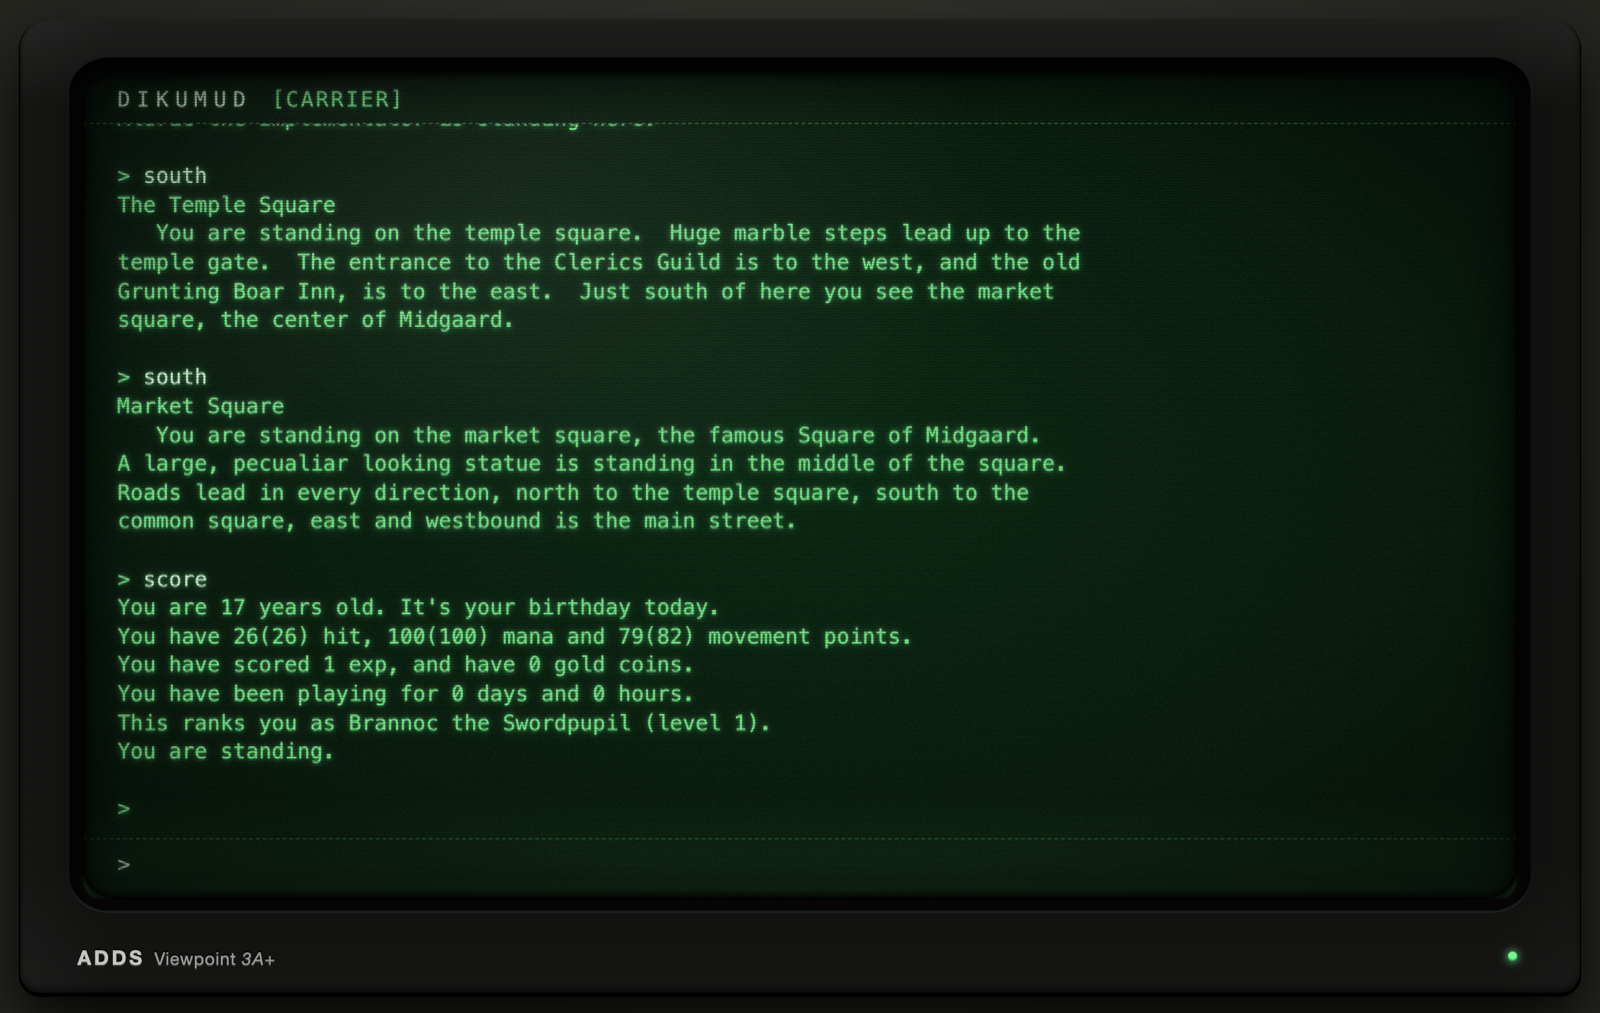
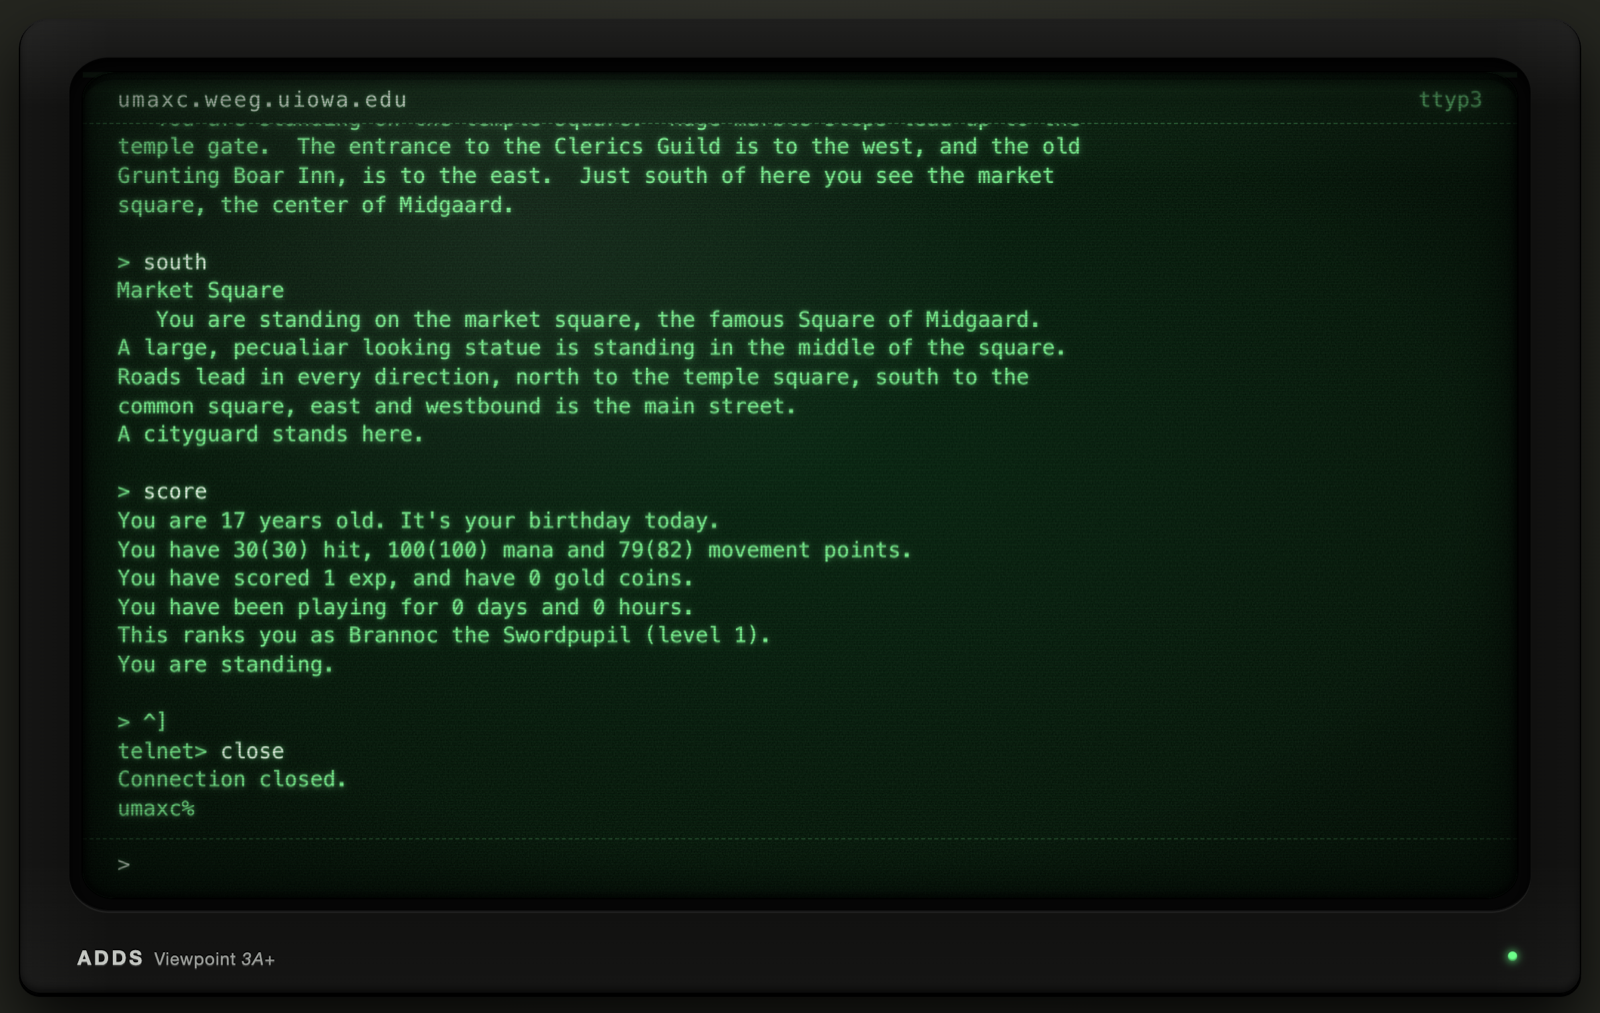
Open the web client on a simulated C shell; reach the MUD with telnet
The terminal now shows umaxc.weeg.uiowa.edu instead of a carrier
status and starts at a csh prompt with a login banner. A handful of
builtins work (ls, cd, pwd, cat, echo, who, date, history, !!, !n,
logout). "telnet mud" opens the WebSocket to the game; ^] gives a
telnet> prompt with close/quit/open/status, and a server-side close
prints "Connection closed by foreign host." and returns to the shell.
The Reconnect button is gone. README explains the new flow, and the
screenshot is retaken to show it.

Changed region(s): [[0.0625, 0.0918, 0.6875, 0.8263], [0.875, 0.0918, 0.9375, 0.1224]]

diff --git a/web/index.html b/web/index.html
@@ -104,20 +104,8 @@
     display: flex; align-items: center; gap: 14px;
     padding: 10px 26px 6px; border-bottom: 1px dashed var(--faint);
   }
-  header h1 { font-size: 1em; margin: 0; color: var(--bright); letter-spacing: .3em; font-weight: normal; }
-  #status { color: var(--dim); text-transform: uppercase; letter-spacing: .1em; }
-  #status::before { content: "["; } #status::after { content: "]"; }
-  #status.on { color: var(--text); }
-  #status.off { animation: blink 1.1s steps(1) infinite; }
-  header button {
-    margin-left: auto; background: transparent; color: var(--bright);
-    border: 1px solid var(--dim); border-radius: 0; padding: 1px 10px;
-    font: inherit; text-shadow: inherit; text-transform: uppercase; letter-spacing: .1em; cursor: pointer;
-  }
-  header button:hover, header button:focus-visible {
-    background: var(--text); color: var(--glass); text-shadow: none; outline: 0;
-    box-shadow: 0 0 10px rgba(var(--phos), .6);
-  }
+  header h1 { font-size: 1em; margin: 0; color: var(--bright); letter-spacing: .08em; font-weight: normal; }
+  #tty { margin-left: auto; color: var(--dim); }
 
   .viewport { position: relative; flex: 1; min-height: 0; }
   #out, #ghost {
@@ -244,7 +232,7 @@
     header h1 { letter-spacing: .15em; }
   }
   @media (prefers-reduced-motion: reduce) {
-    #crt, #screen, #interlace, #noise, #roll, #status.off, #out .new { animation: none !important; }
+    #crt, #screen, #interlace, #noise, #roll, #out .new { animation: none !important; }
     #roll { display: none; }
     #ghost > div { transition: none; }
   }
@@ -256,9 +244,8 @@
 <div id="crt">
   <div id="screen">
     <header>
-      <h1>DIKUMUD</h1>
-      <span id="status" class="off">connecting</span>
-      <button id="reconnect" type="button" hidden>Reconnect</button>
+      <h1>umaxc.weeg.uiowa.edu</h1>
+      <span id="tty">ttyp3</span>
     </header>
     <div class="viewport">
       <div id="ghost" aria-hidden="true"><div></div></div>
@@ -291,8 +278,6 @@
   const ghost = document.getElementById('ghost');
   const ghostText = ghost.firstElementChild;
   const input = document.getElementById('in');
-  const status = document.getElementById('status');
-  const again = document.getElementById('reconnect');
   const crt = document.getElementById('crt');
   const MAX_CHARS = 400000;
   const calm = matchMedia('(prefers-reduced-motion: reduce)');
@@ -389,11 +374,168 @@
   every(45e3, 200e3, ripple);           // every 45–200 seconds
   window.crtFx = { blank, ripple };     // for trying the effects from devtools
 
+  // ---- the host: a C shell on umaxc, with telnet as the way into the MUD ----
+  const HOST = 'umaxc', FQDN = 'umaxc.weeg.uiowa.edu', USER = 'guest', HOME = '/usr/guest';
+  const MUD = { names: ['mud', 'mud.weeg.uiowa.edu'], addr: '128.255.44.21', port: 4000 };
+  const FILES = {
+    '/usr/guest': ['.cshrc', '.login', '.plan', 'mbox', 'notes'],
+    '/usr/guest/notes': ['diku-maps', 'todo'],
+  };
+  // 'sh' at the C shell, 'cmd' at the telnet> prompt, 'mud' when connected
+  let mode = 'sh', cwd = HOME, shHist = [], closing = false;
+
+  const fmtDate = (d = new Date()) => {
+    const p = n => String(n).padStart(2, '0');
+    const day = d.toLocaleString('en-US', { weekday: 'short' });
+    const mon = d.toLocaleString('en-US', { month: 'short' });
+    return `${day} ${mon} ${String(d.getDate()).padStart(2, ' ')} ${p(d.getHours())}:${p(d.getMinutes())}:${p(d.getSeconds())} CST ${d.getFullYear()}`;
+  };
+  const shPrompt = () => append(`${HOST}% `);
+  const tnPrompt = () => append('telnet> ');
+
+  function banner() {
+    const last = new Date(Date.now() - 26 * 3600e3 - Math.random() * 40 * 3600e3);
+    append(
+`\nUMAX V Release 2.4 (${FQDN}) (ttyp3)\n\n` +
+`login: ${USER}\n` +
+`Last login: ${fmtDate(last)} from weeg-ts2\n` +
+`University of Iowa -- Weeg Computing Center -- Encore Multimax\n\n` +
+`  * DikuMUD is running on host "mud".  To play:  telnet mud\n` +
+`  * Escape from telnet with ^] (control-right-bracket).\n\n`);
+    mode = 'sh'; cwd = HOME;
+    shPrompt();
+  }
+
+  function resolve(path) {
+    if (!path || path === '~') return HOME;
+    if (path.startsWith('~/')) path = HOME + path.slice(1);
+    if (!path.startsWith('/')) path = cwd + '/' + path;
+    const parts = [];
+    for (const seg of path.split('/')) {
+      if (!seg || seg === '.') continue;
+      if (seg === '..') parts.pop(); else parts.push(seg);
+    }
+    return '/' + parts.join('/');
+  }
+
+  // returns false when the command takes over the screen (telnet) and prints its own prompt
+  function runShell(line) {
+    const words = line.trim().split(/\s+/).filter(Boolean);
+    if (!words.length) return true;
+    const [cmd, ...args] = words;
+    const say = t => append(t + '\n');
+    switch (cmd) {
+      case 'telnet':
+        if (!args.length) { mode = 'cmd'; tnPrompt(); return false; }
+        return telnetOpen(args[0], args[1]);
+      case 'echo': say(args.join(' ').replace(/\$HOME/g, HOME).replace(/\$USER/g, USER)); break;
+      case 'pwd': say(cwd); break;
+      case 'cd': {
+        const to = resolve(args[0]);
+        if (FILES[to]) cwd = to; else say(`${args[0]}: No such file or directory.`);
+        break;
+      }
+      case 'ls': {
+        const all = args.includes('-a') || args.includes('-la') || args.includes('-al');
+        const target = resolve(args.find(a => !a.startsWith('-')) || '.');
+        const list = FILES[target];
+        if (!list) { say(`${args.find(a => !a.startsWith('-'))} not found`); break; }
+        const shown = all ? ['.', '..', ...list] : list.filter(f => !f.startsWith('.'));
+        say(shown.join('  '));
+        break;
+      }
+      case 'cat': {
+        const f = args[0];
+        if (f === '.plan' && cwd === HOME) say('Mapping the sewers under Midgaard.  Again.');
+        else if (f === 'todo' && cwd === HOME + '/notes') say('- find the cityguard captain\n- buy a lantern');
+        else say(`${f || 'cat'}: ${f ? 'Permission denied' : 'Usage: cat file'}.`);
+        break;
+      }
+      case 'whoami': say(USER); break;
+      case 'hostname': say(FQDN); break;
+      case 'uname': say(args.includes('-a') ? `UMAX ${HOST} 2.4 V Multimax` : 'UMAX'); break;
+      case 'date': say(fmtDate()); break;
+      case 'who':
+        say(`${USER.padEnd(9)}ttyp3   ${fmtDate().slice(4, 16)}   (weeg-ts2)`);
+        say(`root     console ${fmtDate(new Date(Date.now() - 9 * 86400e3)).slice(4, 16)}`);
+        break;
+      case 'history':
+        shHist.forEach((h, i) => say(String(i + 1).padStart(6) + '  ' + h));
+        break;
+      case 'clear': clearScreen(); break;
+      case 'logout': case 'exit': case 'login':
+        say('logout'); setTimeout(banner, 600); return false;
+      case 'rlogin': case 'ftp': case 'rsh':
+        say(`${cmd}: ${args[0] || ''}: Network is unreachable`); break;
+      default: say(`${cmd}: Command not found.`);
+    }
+    return true;
+  }
+
+  function telnetOpen(host, port) {
+    if (!host) { append('usage: open host-name [port]\n'); return true; }
+    const known = MUD.names.includes(host) || host === MUD.addr;
+    if (!known) {
+      append(`${host}: unknown host\n`);
+      return true;
+    }
+    if (port && port !== String(MUD.port) && port !== 'telnet' && port !== '23') {
+      append(`Trying ${MUD.addr}...\ntelnet: Unable to connect to remote host: Connection refused\n`);
+      return true;
+    }
+    append(`Trying ${MUD.addr}...\n`);
+    mode = 'connecting';
+    setTimeout(connect, 350 + Math.random() * 500);
+    return false;
+  }
+
+  function backToShell(msg) {
+    ws = null; closing = false;
+    setEcho(true);
+    if (msg) append(msg + '\n');
+    mode = 'sh'; shPrompt();
+  }
+
+  function runTelnetCmd(line) {
+    const [cmd, ...args] = line.trim().split(/\s+/);
+    const live = ws && ws.readyState === WebSocket.OPEN;
+    if (!cmd) { if (live) { mode = 'mud'; return; } tnPrompt(); return; }
+    if (/^(close|c|quit|q)$/.test(cmd)) {
+      if (live) { closing = true; ws.close(); return; }       // onclose prints and returns to csh
+      if (/^q/.test(cmd)) { mode = 'sh'; shPrompt(); return; }
+      append('?Need to be connected first.\n'); tnPrompt(); return;
+    }
+    if (/^(open|o)$/.test(cmd)) {
+      if (live) { append(`?Already connected to ${MUD.names[0]}\n`); tnPrompt(); return; }
+      if (!telnetOpen(args[0], args[1])) return;
+      tnPrompt(); return;
+    }
+    if (/^(status|st)$/.test(cmd)) {
+      append(live ? `Connected to ${MUD.names[0]}.\nEscape character is '^]'.\n` : 'No connection.\nEscape character is \'^]\'.\n');
+      if (live) { mode = 'mud'; return; }
+      tnPrompt(); return;
+    }
+    if (cmd === '?' || cmd === 'help') {
+      append('Commands may be abbreviated.  Commands are:\n\n' +
+        'close           close current connection\n' +
+        'open            connect to a site\n' +
+        'quit            exit telnet\n' +
+        'status          print status information\n' +
+        '?               print help information\n');
+      tnPrompt(); return;
+    }
+    append('?Invalid command\n'); tnPrompt();
+  }
+
   function connect() {
     const proto = location.protocol === 'https:' ? 'wss:' : 'ws:';
+    let opened = false;
     ws = new WebSocket(proto + '//' + location.host + '/ws');
-    status.textContent = 'connecting'; status.className = 'off'; again.hidden = true;
-    ws.onopen = () => { status.textContent = 'carrier'; status.className = 'on'; input.focus(); };
+    ws.onopen = () => {
+      opened = true; mode = 'mud';
+      append(`Connected to ${MUD.names[0]}.\nEscape character is '^]'.\n`);
+      input.focus();
+    };
     ws.onmessage = ev => {
       let m;
       try { m = JSON.parse(ev.data); } catch { return; }
@@ -401,16 +543,20 @@
       else if (m.t === 'echo') setEcho(m.v);
     };
     ws.onclose = () => {
-      status.textContent = 'no carrier'; status.className = 'off';
-      append('\n[connection closed]\n', 'sys');
-      again.hidden = false; setEcho(true);
+      if (!opened) return backToShell(`telnet: Unable to connect to remote host: Connection refused`);
+      backToShell(closing ? 'Connection closed.' : '\nConnection closed by foreign host.');
     };
   }
+
   document.getElementById('f').addEventListener('submit', e => {
     e.preventDefault();
     const line = input.value;
-    if (!ws || ws.readyState !== WebSocket.OPEN) return;
-    ws.send(line);
+    input.value = '';
+    if (mode === 'connecting') return;
+    if (mode === 'mud') {
+      if (!ws || ws.readyState !== WebSocket.OPEN) return;
+      ws.send(line);
+    }
     if (echo) {
       append(line + '\n', 'echo');
       if (line && history[history.length - 1] !== line) history.push(line);
@@ -419,10 +565,36 @@
       append('\n');
     }
     hpos = history.length;
-    input.value = '';
     out.scrollTop = out.scrollHeight;
+
+    if (mode === 'sh') {
+      let cmdline = line;
+      // csh history substitution: !! and !n
+      if (/^!(!|\d+)/.test(cmdline.trim())) {
+        const ref = cmdline.trim().slice(1);
+        const prev = ref.startsWith('!') ? shHist[shHist.length - 1] : shHist[parseInt(ref, 10) - 1];
+        if (!prev) { append(`${ref.startsWith('!') ? '!' : ref}: Event not found.\n`); shPrompt(); return; }
+        cmdline = prev + ref.replace(/^(!|\d+)/, '');
+        append(cmdline + '\n');
+      }
+      if (cmdline.trim()) shHist.push(cmdline.trim());
+      if (runShell(cmdline)) shPrompt();
+    } else if (mode === 'cmd') {
+      runTelnetCmd(line);
+    }
   });
+
   input.addEventListener('keydown', e => {
+    // ^] : telnet escape
+    if (e.ctrlKey && (e.key === ']' || e.code === 'BracketRight')) {
+      e.preventDefault();
+      if (mode === 'mud') { append('^]\n'); mode = 'cmd'; setEcho(true); tnPrompt(); }
+      return;
+    }
+    // ^C at the shell: abandon the line
+    if (e.ctrlKey && e.key === 'c' && mode === 'sh' && !getSelection().toString()) {
+      e.preventDefault(); append(input.value + '^C\n'); input.value = ''; shPrompt(); return;
+    }
     if (!echo) return;
     if (e.key === 'ArrowUp' && hpos > 0) { input.value = history[--hpos]; e.preventDefault(); }
     else if (e.key === 'ArrowDown') {
@@ -431,9 +603,8 @@
     }
   });
   out.addEventListener('click', () => { if (!getSelection().toString()) input.focus(); });
-  again.addEventListener('click', () => { clearScreen(); connect(); });
   addEventListener('resize', syncGhost);
-  connect();
+  banner();
 })();
 </script>
 </body>

diff --git a/README.md b/README.md
@@ -1,6 +1,6 @@
 # DikuMUD in Rust
 
-![DikuMUD running in the web client, styled as a green-phosphor ADDS Viewpoint 3A+ terminal, showing a walk from the Temple Square to the Market Square of Midgaard and the score command](web/screenshot.png)
+![DikuMUD in the web client, styled as a green-phosphor ADDS Viewpoint 3A+ terminal logged in to umaxc.weeg.uiowa.edu: a walk to the Market Square of Midgaard, the score command, then ^] and close back to the C shell prompt](web/screenshot.png)
 
 A port of **DikuMUD I (Gamma 0.0)**, the 1990–91 multi-user dungeon from
 DIKU (University of Copenhagen), from C to Rust. You play it in a web browser
@@ -25,7 +25,9 @@ it automatically. There are no third-party crates.
 cargo run --release
 ```
 
-Then open <http://127.0.0.1:4000/> in a browser.
+Then open <http://127.0.0.1:4000/> in a browser. The page starts at a C shell
+prompt on `umaxc.weeg.uiowa.edu`; type `telnet mud` to connect to the game.
+Press `^]` (Ctrl+]) for the `telnet>` prompt, where `close` ends the session.
 
 ```
 dmserver [-s] [-d <data dir>] [-b <bind address>] [port]
@@ -96,8 +98,10 @@ game plays the same.
   web client (`web/index.html`, built into the binary) and speaks WebSocket at
   `/ws`. The client masks the password field and keeps command history (up and
   down arrows). It is styled as a green-phosphor CRT terminal; the flicker and
-  glitch effects switch off when the system asks for reduced motion. Telnet is
-  no longer supported.
+  glitch effects switch off when the system asks for reduced motion. The page
+  opens on a simulated C shell (`ls`, `cd`, `echo`, `who`, `history`, `!!`,
+  …) and only connects to the game when you run `telnet mud`; that shell and
+  telnet live entirely in the browser. Real telnet clients are not supported.
 - **Portable save files.** The binary `players` and `pcobjs.obj` files held
   raw C structs. They are now one text file per player in `lib/plrs/`:
   `name.plr` for the character and `name.objs` for items stored at an inn. The
